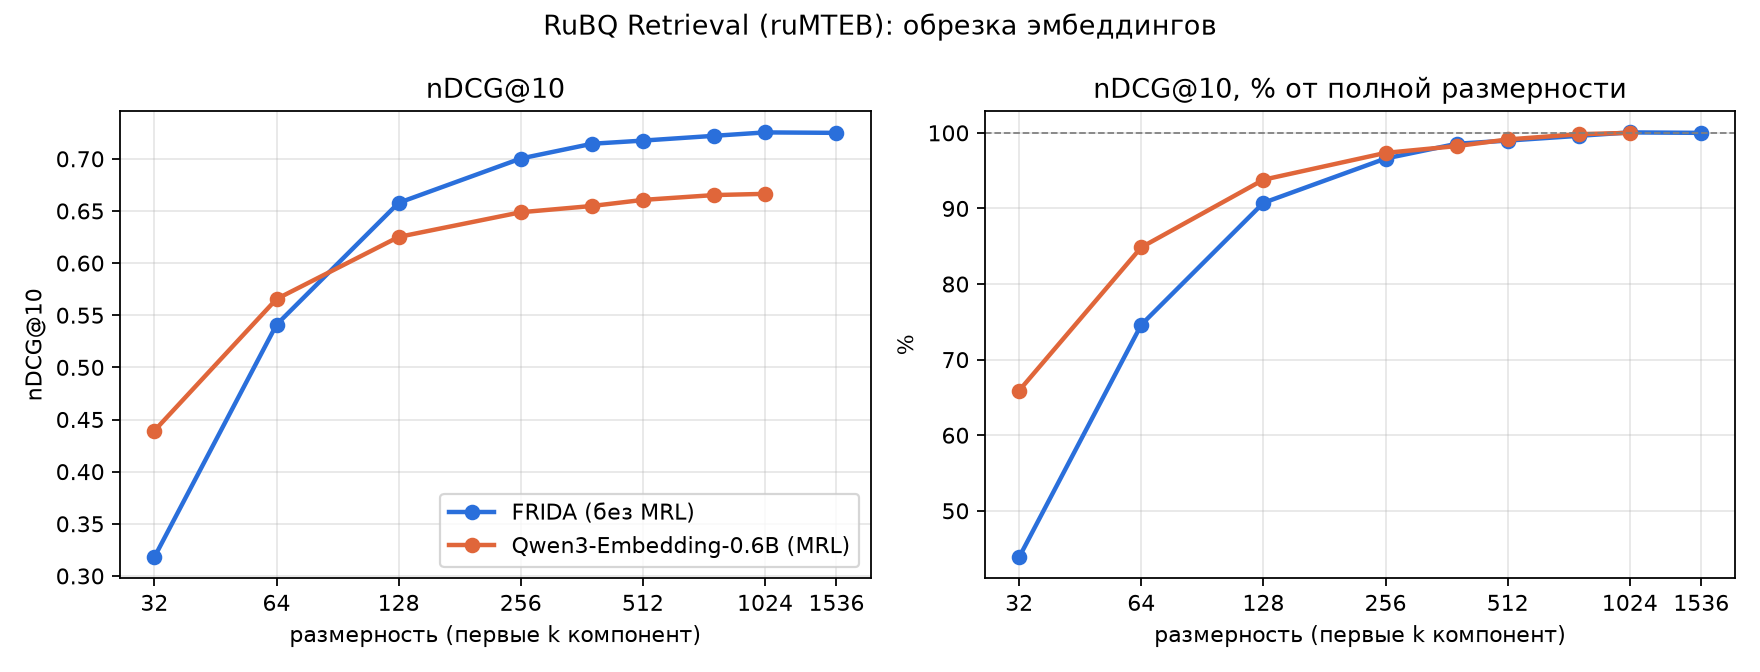
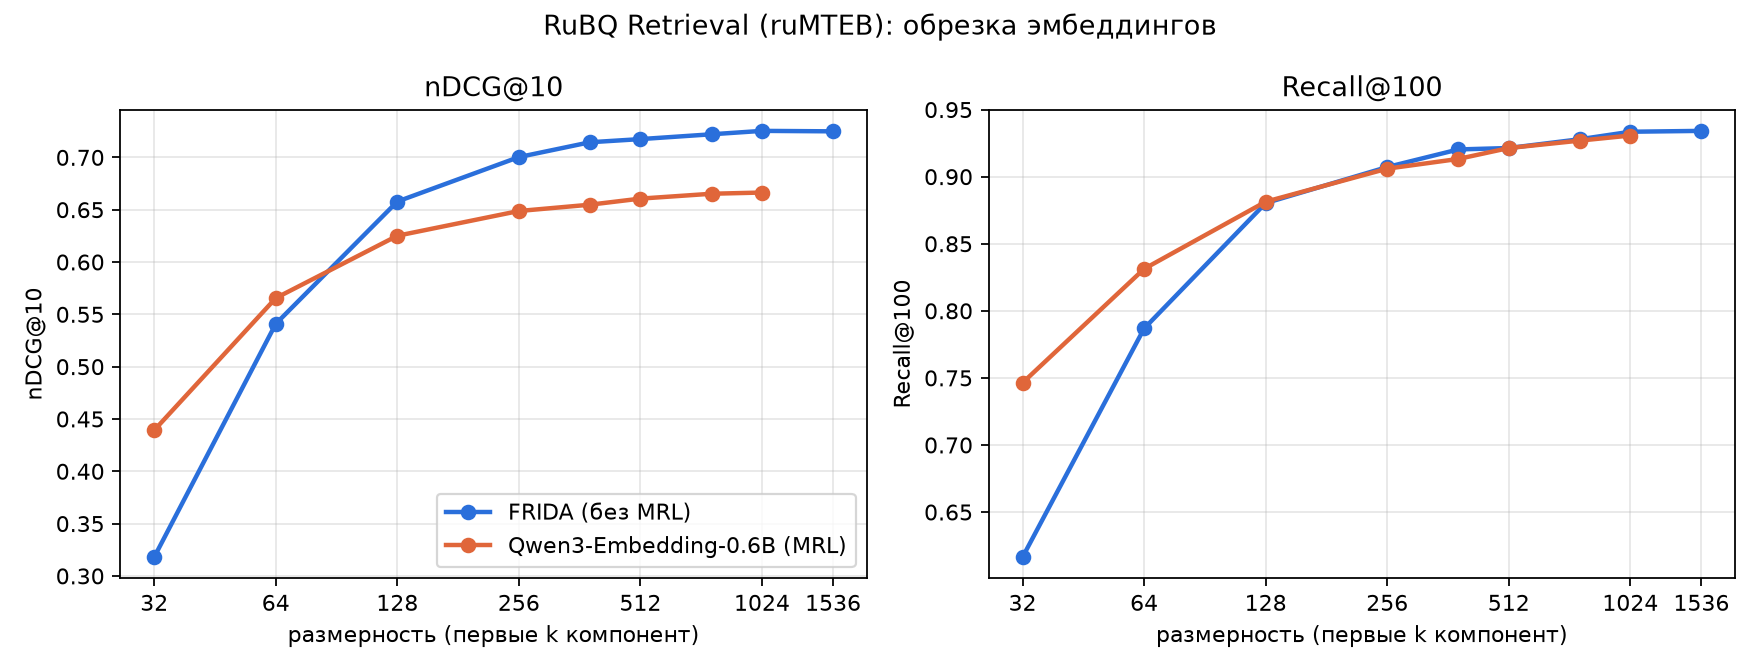
mrl: plot absolute nDCG@10 and Recall@100

diff --git a/mrl/run_mrl.py b/mrl/run_mrl.py
@@ -156,11 +156,11 @@ def plot(df):
         g = g.sort_values("dim")
         kw = dict(marker="o", color=colors[model], label=labels[model], lw=2)
         axes[0].plot(g.dim, g.ndcg10, **kw)
-        axes[1].plot(g.dim, g.ndcg10_pct, **kw)
+        axes[1].plot(g.dim, g.recall100, **kw)
     ticks = [d for d in sorted(df.dim.unique()) if d not in (384, 768)]  # avoid label overlap
     for ax, title, ylabel in (
         (axes[0], "nDCG@10", "nDCG@10"),
-        (axes[1], "nDCG@10, % от полной размерности", "%"),
+        (axes[1], "Recall@100", "Recall@100"),
     ):
         ax.set_xscale("log", base=2)
         ax.set_xticks(ticks)
@@ -169,7 +169,6 @@ def plot(df):
         ax.set_ylabel(ylabel)
         ax.set_title(title)
         ax.grid(alpha=0.3)
-    axes[1].axhline(100, color="gray", lw=0.8, ls="--")
     axes[0].legend()
     fig.suptitle("RuBQ Retrieval (ruMTEB): обрезка эмбеддингов")
     fig.tight_layout()
